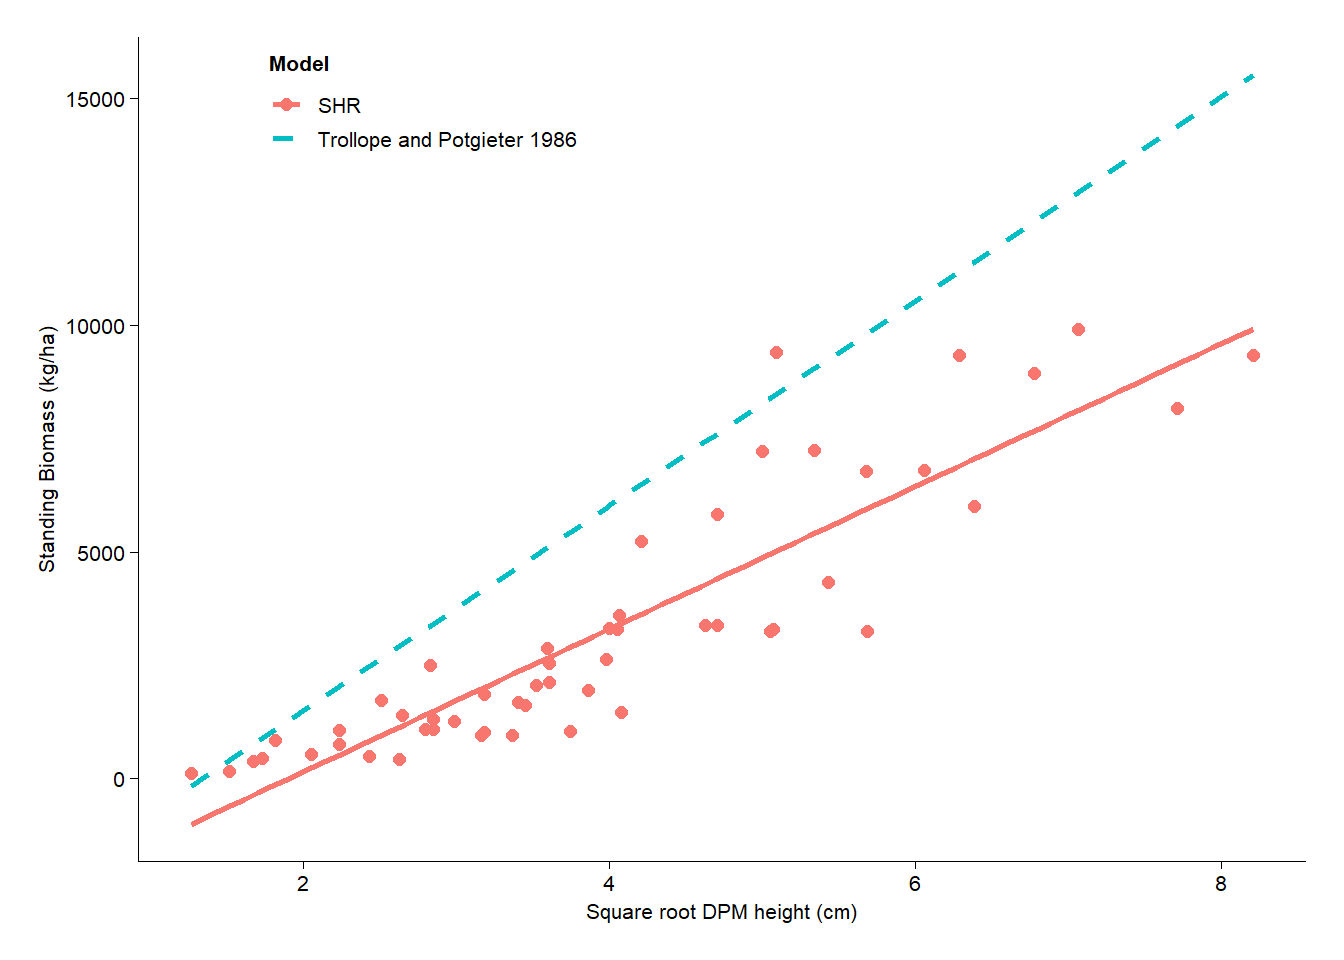
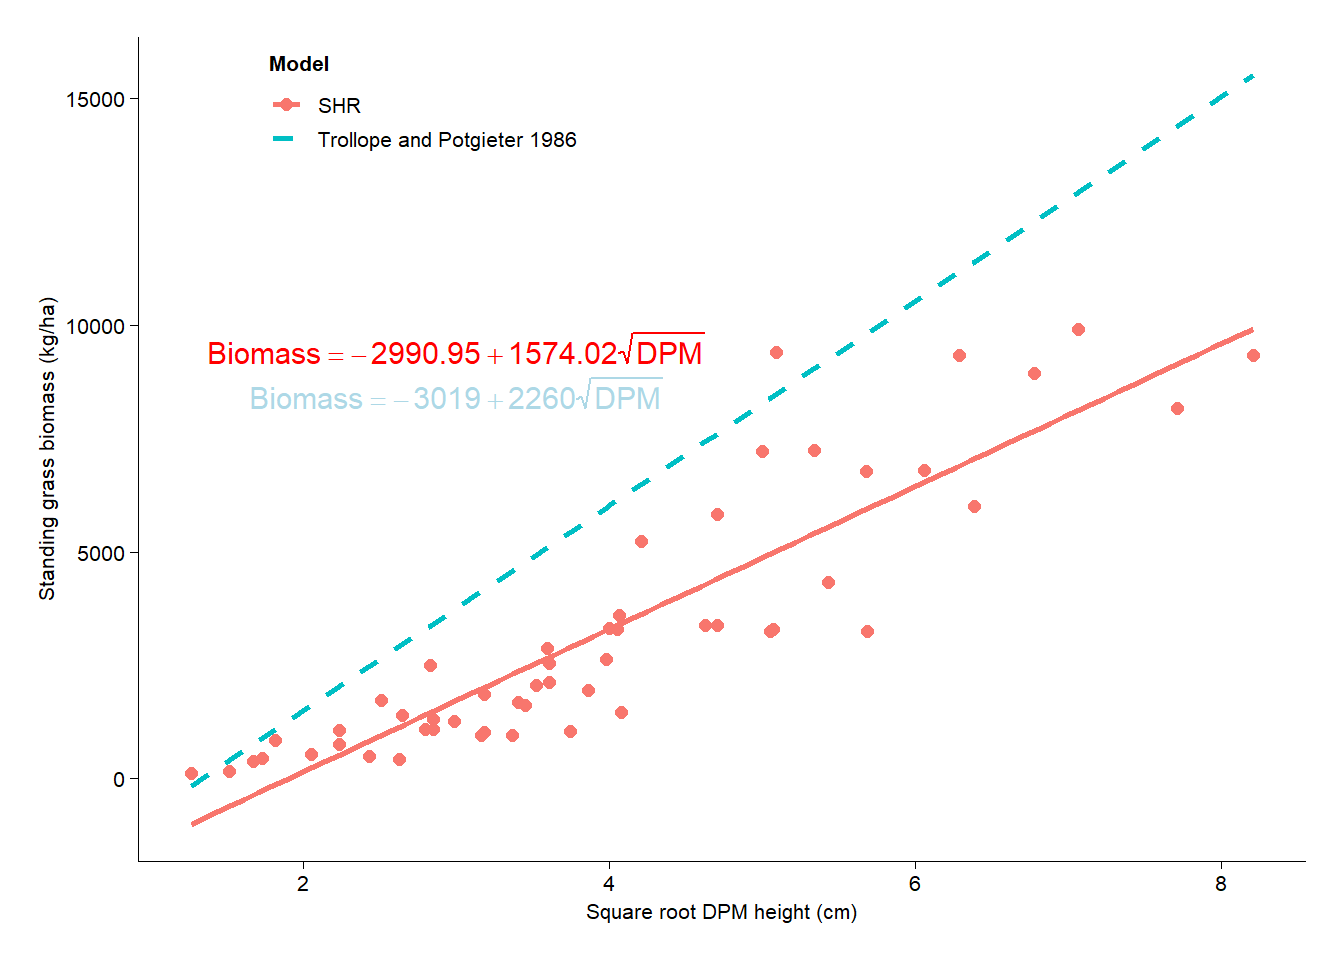
Refined work

Changed region(s): [[0.2812, 0.3438, 0.5312, 0.4375], [0.0312, 0.3125, 0.0625, 0.625], [0.1562, 0.3438, 0.2812, 0.4375]]

diff --git a/QUARTO_files/QUARTO.html b/QUARTO_files/QUARTO.html
@@ -114,7 +114,7 @@ pre > code.sourceCode > span > a:first-child::before { text-decoration: underlin
 
 <section id="introduction" class="level2">
 <h2 class="anchored" data-anchor-id="introduction">Introduction</h2>
-<p>The plots below show the relationship between DPM heights and standing biomass (kg/ha).</p>
+<p>The plots below show the relationship between DPM heights (cm) and standing grass biomass (kg/ha). A comparison of the study model (SHR) and other existing models e.g.&nbsp;Trollope and Potgieter (1986) is done on the plots.</p>
 </section>
 <section id="standing-grass-biomass-at-shangani-holistic-ranch" class="level2">
 <h2 class="anchored" data-anchor-id="standing-grass-biomass-at-shangani-holistic-ranch">Standing grass biomass at Shangani Holistic Ranch</h2>
@@ -341,58 +341,61 @@ R<sup>2</sup> / R<sup>2</sup> adjusted
 <span id="cb3-52"><a href="#cb3-52" aria-hidden="true" tabindex="-1"></a>frame_area <span class="ot">&lt;-</span> pi <span class="sc">*</span> (<span class="fl">0.17</span><span class="sc">^</span><span class="dv">2</span>)  <span class="co"># = 0.0908 m²</span></span>
 <span id="cb3-53"><a href="#cb3-53" aria-hidden="true" tabindex="-1"></a>WGdata<span class="sc">$</span>Biomass_kg_ha <span class="ot">&lt;-</span> WGdata<span class="sc">$</span>Weight <span class="sc">*</span> <span class="dv">10</span> <span class="sc">/</span> frame_area</span>
 <span id="cb3-54"><a href="#cb3-54" aria-hidden="true" tabindex="-1"></a></span>
-<span id="cb3-55"><a href="#cb3-55" aria-hidden="true" tabindex="-1"></a><span class="co"># 3. Linear regression: Biomass ~ DPH</span></span>
-<span id="cb3-56"><a href="#cb3-56" aria-hidden="true" tabindex="-1"></a>modelWG <span class="ot">&lt;-</span> <span class="fu">lm</span>(Biomass_kg_ha <span class="sc">~</span> DPH_Height, <span class="at">data =</span> WGdata)</span>
-<span id="cb3-57"><a href="#cb3-57" aria-hidden="true" tabindex="-1"></a></span>
+<span id="cb3-55"><a href="#cb3-55" aria-hidden="true" tabindex="-1"></a><span class="do">#####Creating annotations for Trollope </span></span>
+<span id="cb3-56"><a href="#cb3-56" aria-hidden="true" tabindex="-1"></a><span class="co"># If the height column exists, create square root</span></span>
+<span id="cb3-57"><a href="#cb3-57" aria-hidden="true" tabindex="-1"></a>WGdata<span class="sc">$</span>sqrtDPH_Height <span class="ot">&lt;-</span> <span class="fu">sqrt</span>(WGdata<span class="sc">$</span>DPH_Height)  <span class="co"># adjust if column name differs</span></span>
 <span id="cb3-58"><a href="#cb3-58" aria-hidden="true" tabindex="-1"></a></span>
-<span id="cb3-59"><a href="#cb3-59" aria-hidden="true" tabindex="-1"></a><span class="do">### USING THE TROLLOPE EQUATION TO COMPARE IT WITH MY MODEL</span></span>
-<span id="cb3-60"><a href="#cb3-60" aria-hidden="true" tabindex="-1"></a><span class="co"># Step 1: Prepare WGdata</span></span>
-<span id="cb3-61"><a href="#cb3-61" aria-hidden="true" tabindex="-1"></a></span>
-<span id="cb3-62"><a href="#cb3-62" aria-hidden="true" tabindex="-1"></a>WGdata<span class="sc">$</span>sqrtDPH_Height <span class="ot">&lt;-</span> <span class="fu">sqrt</span>(WGdata<span class="sc">$</span>DPH_Height)</span>
-<span id="cb3-63"><a href="#cb3-63" aria-hidden="true" tabindex="-1"></a></span>
-<span id="cb3-64"><a href="#cb3-64" aria-hidden="true" tabindex="-1"></a><span class="co"># Step 2: Create theoretical model predictions using the equation</span></span>
-<span id="cb3-65"><a href="#cb3-65" aria-hidden="true" tabindex="-1"></a>WGdata<span class="sc">$</span>TR_model <span class="ot">&lt;-</span> <span class="sc">-</span><span class="dv">3019</span> <span class="sc">+</span> <span class="dv">2260</span> <span class="sc">*</span> WGdata<span class="sc">$</span>sqrtDPH_Height</span>
-<span id="cb3-66"><a href="#cb3-66" aria-hidden="true" tabindex="-1"></a></span>
-<span id="cb3-67"><a href="#cb3-67" aria-hidden="true" tabindex="-1"></a><span class="co"># Step 3: Theoretical model: y = -3019 + 2260 * sqrt(DP)</span></span>
-<span id="cb3-68"><a href="#cb3-68" aria-hidden="true" tabindex="-1"></a>TR_model_data <span class="ot">&lt;-</span> <span class="fu">data.frame</span>(</span>
-<span id="cb3-69"><a href="#cb3-69" aria-hidden="true" tabindex="-1"></a>  <span class="at">sqrtDPH_Height =</span> WGdata<span class="sc">$</span>sqrtDPH_Height,</span>
-<span id="cb3-70"><a href="#cb3-70" aria-hidden="true" tabindex="-1"></a>  <span class="at">Biomass_kg_ha =</span> <span class="sc">-</span><span class="dv">3019</span> <span class="sc">+</span> <span class="dv">2260</span> <span class="sc">*</span> WGdata<span class="sc">$</span>sqrtDPH_Height,</span>
-<span id="cb3-71"><a href="#cb3-71" aria-hidden="true" tabindex="-1"></a>  <span class="at">Source =</span> <span class="st">"Trollope and Potgieter 1986"</span>)</span>
-<span id="cb3-72"><a href="#cb3-72" aria-hidden="true" tabindex="-1"></a></span>
-<span id="cb3-73"><a href="#cb3-73" aria-hidden="true" tabindex="-1"></a><span class="co"># Step 4: Add source to WGdata</span></span>
-<span id="cb3-74"><a href="#cb3-74" aria-hidden="true" tabindex="-1"></a>WG_actual_data <span class="ot">&lt;-</span> <span class="fu">data.frame</span>(</span>
-<span id="cb3-75"><a href="#cb3-75" aria-hidden="true" tabindex="-1"></a>  <span class="at">sqrtDPH_Height =</span> WGdata<span class="sc">$</span>sqrtDPH_Height,</span>
-<span id="cb3-76"><a href="#cb3-76" aria-hidden="true" tabindex="-1"></a>  <span class="at">Biomass_kg_ha =</span> WGdata<span class="sc">$</span>Biomass_kg_ha,</span>
-<span id="cb3-77"><a href="#cb3-77" aria-hidden="true" tabindex="-1"></a>  <span class="at">Source =</span> <span class="st">"SHR"</span>)</span>
+<span id="cb3-59"><a href="#cb3-59" aria-hidden="true" tabindex="-1"></a><span class="co"># Create actual data for SHR model</span></span>
+<span id="cb3-60"><a href="#cb3-60" aria-hidden="true" tabindex="-1"></a>WG_actual_data <span class="ot">&lt;-</span> <span class="fu">data.frame</span>(</span>
+<span id="cb3-61"><a href="#cb3-61" aria-hidden="true" tabindex="-1"></a>  <span class="at">sqrtDPH_Height =</span> WGdata<span class="sc">$</span>sqrtDPH_Height,</span>
+<span id="cb3-62"><a href="#cb3-62" aria-hidden="true" tabindex="-1"></a>  <span class="at">Biomass_kg_ha =</span> WGdata<span class="sc">$</span>Biomass_kg_ha,</span>
+<span id="cb3-63"><a href="#cb3-63" aria-hidden="true" tabindex="-1"></a>  <span class="at">Source =</span> <span class="st">"SHR"</span>)</span>
+<span id="cb3-64"><a href="#cb3-64" aria-hidden="true" tabindex="-1"></a></span>
+<span id="cb3-65"><a href="#cb3-65" aria-hidden="true" tabindex="-1"></a><span class="co"># Data from the Trollope equation</span></span>
+<span id="cb3-66"><a href="#cb3-66" aria-hidden="true" tabindex="-1"></a>TR_model_data <span class="ot">&lt;-</span> <span class="fu">data.frame</span>(</span>
+<span id="cb3-67"><a href="#cb3-67" aria-hidden="true" tabindex="-1"></a>  <span class="at">sqrtDPH_Height =</span> WGdata<span class="sc">$</span>sqrtDPH_Height,</span>
+<span id="cb3-68"><a href="#cb3-68" aria-hidden="true" tabindex="-1"></a>  <span class="at">Biomass_kg_ha =</span> <span class="sc">-</span><span class="dv">3019</span> <span class="sc">+</span> <span class="dv">2260</span> <span class="sc">*</span> WGdata<span class="sc">$</span>sqrtDPH_Height,</span>
+<span id="cb3-69"><a href="#cb3-69" aria-hidden="true" tabindex="-1"></a>  <span class="at">Source =</span> <span class="st">"Trollope and Potgieter 1986"</span></span>
+<span id="cb3-70"><a href="#cb3-70" aria-hidden="true" tabindex="-1"></a>)</span>
+<span id="cb3-71"><a href="#cb3-71" aria-hidden="true" tabindex="-1"></a></span>
+<span id="cb3-72"><a href="#cb3-72" aria-hidden="true" tabindex="-1"></a><span class="co"># Combine </span></span>
+<span id="cb3-73"><a href="#cb3-73" aria-hidden="true" tabindex="-1"></a>combined <span class="ot">&lt;-</span> <span class="fu">rbind</span>(WG_actual_data, TR_model_data)</span>
+<span id="cb3-74"><a href="#cb3-74" aria-hidden="true" tabindex="-1"></a></span>
+<span id="cb3-75"><a href="#cb3-75" aria-hidden="true" tabindex="-1"></a><span class="co">#Fit model SHR model and define annotation equations</span></span>
+<span id="cb3-76"><a href="#cb3-76" aria-hidden="true" tabindex="-1"></a>model_SHR <span class="ot">&lt;-</span> <span class="fu">lm</span>(Biomass_kg_ha <span class="sc">~</span> sqrtDPH_Height, <span class="at">data =</span> WG_actual_data)</span>
+<span id="cb3-77"><a href="#cb3-77" aria-hidden="true" tabindex="-1"></a>coefs_SHR <span class="ot">&lt;-</span> <span class="fu">round</span>(<span class="fu">coef</span>(model_SHR), <span class="dv">2</span>)</span>
 <span id="cb3-78"><a href="#cb3-78" aria-hidden="true" tabindex="-1"></a></span>
-<span id="cb3-79"><a href="#cb3-79" aria-hidden="true" tabindex="-1"></a><span class="co"># Step 5: Combine both for plotting</span></span>
-<span id="cb3-80"><a href="#cb3-80" aria-hidden="true" tabindex="-1"></a>combined <span class="ot">&lt;-</span> <span class="fu">rbind</span>(WG_actual_data, TR_model_data)</span>
+<span id="cb3-79"><a href="#cb3-79" aria-hidden="true" tabindex="-1"></a>eq_SHR <span class="ot">&lt;-</span> <span class="fu">paste0</span>(<span class="st">"Biomass == "</span>, coefs_SHR[<span class="dv">1</span>], <span class="st">" + "</span>, coefs_SHR[<span class="dv">2</span>], <span class="st">" * sqrt(DPM)"</span>)</span>
+<span id="cb3-80"><a href="#cb3-80" aria-hidden="true" tabindex="-1"></a>eq_Trollope <span class="ot">&lt;-</span> <span class="st">"Biomass == -3019 + 2260 * sqrt(DPM)"</span></span>
 <span id="cb3-81"><a href="#cb3-81" aria-hidden="true" tabindex="-1"></a></span>
-<span id="cb3-82"><a href="#cb3-82" aria-hidden="true" tabindex="-1"></a><span class="co"># Step 6: Plot with legend</span></span>
-<span id="cb3-83"><a href="#cb3-83" aria-hidden="true" tabindex="-1"></a><span class="fu">ggplot</span>(combined, <span class="fu">aes</span>(<span class="at">x =</span> sqrtDPH_Height, <span class="at">y =</span> Biomass_kg_ha, <span class="at">color =</span> Source)) <span class="sc">+</span></span>
-<span id="cb3-84"><a href="#cb3-84" aria-hidden="true" tabindex="-1"></a>  <span class="fu">geom_point</span>(<span class="at">data =</span> <span class="fu">subset</span>(combined, Source <span class="sc">==</span> <span class="st">"SHR"</span>), <span class="at">size =</span> <span class="dv">2</span>) <span class="sc">+</span></span>
-<span id="cb3-85"><a href="#cb3-85" aria-hidden="true" tabindex="-1"></a>  <span class="fu">geom_smooth</span>(<span class="at">data =</span> <span class="fu">subset</span>(combined, Source <span class="sc">==</span> <span class="st">"SHR"</span>),</span>
-<span id="cb3-86"><a href="#cb3-86" aria-hidden="true" tabindex="-1"></a>              <span class="at">method =</span> <span class="st">"lm"</span>, <span class="at">se =</span> <span class="cn">FALSE</span>) <span class="sc">+</span></span>
-<span id="cb3-87"><a href="#cb3-87" aria-hidden="true" tabindex="-1"></a>  <span class="fu">geom_line</span>(<span class="at">data =</span> <span class="fu">subset</span>(combined, Source <span class="sc">==</span> <span class="st">"Trollope and Potgieter 1986"</span>),</span>
-<span id="cb3-88"><a href="#cb3-88" aria-hidden="true" tabindex="-1"></a>            <span class="at">linetype =</span> <span class="st">"dashed"</span>, <span class="at">size =</span> <span class="dv">1</span>) <span class="sc">+</span></span>
-<span id="cb3-89"><a href="#cb3-89" aria-hidden="true" tabindex="-1"></a>  <span class="fu">labs</span>(</span>
-<span id="cb3-90"><a href="#cb3-90" aria-hidden="true" tabindex="-1"></a>    <span class="at">x =</span> <span class="st">"Square root DPM height (cm)"</span>,</span>
-<span id="cb3-91"><a href="#cb3-91" aria-hidden="true" tabindex="-1"></a>    <span class="at">y =</span> <span class="st">"Standing Biomass (kg/ha)"</span>,</span>
-<span id="cb3-92"><a href="#cb3-92" aria-hidden="true" tabindex="-1"></a>    <span class="at">color =</span> <span class="st">"Model"</span></span>
-<span id="cb3-93"><a href="#cb3-93" aria-hidden="true" tabindex="-1"></a>  ) <span class="sc">+</span></span>
-<span id="cb3-94"><a href="#cb3-94" aria-hidden="true" tabindex="-1"></a>  <span class="fu">theme_beautiful</span>() <span class="sc">+</span> <span class="fu">theme</span>(<span class="at">legend.position =</span> <span class="st">"right"</span>) <span class="sc">+</span> </span>
-<span id="cb3-95"><a href="#cb3-95" aria-hidden="true" tabindex="-1"></a>  <span class="fu">theme</span>(</span>
-<span id="cb3-96"><a href="#cb3-96" aria-hidden="true" tabindex="-1"></a>    <span class="at">legend.position =</span> <span class="fu">c</span>(<span class="fl">0.1</span>, <span class="dv">1</span>),</span>
-<span id="cb3-97"><a href="#cb3-97" aria-hidden="true" tabindex="-1"></a>    <span class="at">legend.justification =</span> <span class="fu">c</span>(<span class="dv">0</span>, <span class="dv">1</span>),</span>
-<span id="cb3-98"><a href="#cb3-98" aria-hidden="true" tabindex="-1"></a>    <span class="at">legend.box.just =</span> <span class="st">"left"</span>,</span>
-<span id="cb3-99"><a href="#cb3-99" aria-hidden="true" tabindex="-1"></a>    <span class="at">legend.title =</span> <span class="fu">element_text</span>(<span class="at">face =</span> <span class="st">"bold"</span>),</span>
-<span id="cb3-100"><a href="#cb3-100" aria-hidden="true" tabindex="-1"></a>    <span class="at">legend.background =</span> <span class="fu">element_rect</span>(<span class="at">fill =</span> <span class="st">"white"</span>, <span class="at">color =</span> <span class="st">"gray90"</span>))</span></code><button title="Copy to Clipboard" class="code-copy-button"><i class="bi"></i></button></pre></div>
+<span id="cb3-82"><a href="#cb3-82" aria-hidden="true" tabindex="-1"></a></span>
+<span id="cb3-83"><a href="#cb3-83" aria-hidden="true" tabindex="-1"></a><span class="do">##PLTOTTING</span></span>
+<span id="cb3-84"><a href="#cb3-84" aria-hidden="true" tabindex="-1"></a></span>
+<span id="cb3-85"><a href="#cb3-85" aria-hidden="true" tabindex="-1"></a><span class="fu">ggplot</span>(combined, <span class="fu">aes</span>(<span class="at">x =</span> sqrtDPH_Height, <span class="at">y =</span> Biomass_kg_ha, <span class="at">color =</span> Source)) <span class="sc">+</span></span>
+<span id="cb3-86"><a href="#cb3-86" aria-hidden="true" tabindex="-1"></a>  <span class="fu">geom_point</span>(<span class="at">data =</span> <span class="fu">subset</span>(combined, Source <span class="sc">==</span> <span class="st">"SHR"</span>), <span class="at">size =</span> <span class="dv">2</span>) <span class="sc">+</span></span>
+<span id="cb3-87"><a href="#cb3-87" aria-hidden="true" tabindex="-1"></a>  <span class="fu">geom_smooth</span>(<span class="at">data =</span> <span class="fu">subset</span>(combined, Source <span class="sc">==</span> <span class="st">"SHR"</span>), <span class="at">method =</span> <span class="st">"lm"</span>, <span class="at">se =</span> <span class="cn">FALSE</span>) <span class="sc">+</span></span>
+<span id="cb3-88"><a href="#cb3-88" aria-hidden="true" tabindex="-1"></a>  <span class="fu">geom_line</span>(<span class="at">data =</span> <span class="fu">subset</span>(combined, Source <span class="sc">==</span> <span class="st">"Trollope and Potgieter 1986"</span>),</span>
+<span id="cb3-89"><a href="#cb3-89" aria-hidden="true" tabindex="-1"></a>            <span class="at">linetype =</span> <span class="st">"dashed"</span>, <span class="at">size =</span> <span class="dv">1</span>) <span class="sc">+</span></span>
+<span id="cb3-90"><a href="#cb3-90" aria-hidden="true" tabindex="-1"></a>  <span class="fu">annotate</span>(<span class="st">"text"</span>, <span class="at">x =</span> <span class="dv">3</span>, <span class="at">y =</span> <span class="dv">9500</span>, <span class="at">label =</span> eq_SHR, <span class="at">parse =</span> <span class="cn">TRUE</span>, <span class="at">color =</span> <span class="st">"red"</span>, <span class="at">size =</span> <span class="dv">4</span>) <span class="sc">+</span></span>
+<span id="cb3-91"><a href="#cb3-91" aria-hidden="true" tabindex="-1"></a>  <span class="fu">annotate</span>(<span class="st">"text"</span>, <span class="at">x =</span> <span class="dv">3</span>, <span class="at">y =</span> <span class="dv">8500</span>, <span class="at">label =</span> eq_Trollope, <span class="at">parse =</span> <span class="cn">TRUE</span>, <span class="at">color =</span> <span class="st">"lightblue"</span>, <span class="at">size =</span> <span class="dv">4</span>) <span class="sc">+</span></span>
+<span id="cb3-92"><a href="#cb3-92" aria-hidden="true" tabindex="-1"></a>  <span class="fu">labs</span>(</span>
+<span id="cb3-93"><a href="#cb3-93" aria-hidden="true" tabindex="-1"></a>    <span class="at">x =</span> <span class="st">"Square root DPM height (cm)"</span>,</span>
+<span id="cb3-94"><a href="#cb3-94" aria-hidden="true" tabindex="-1"></a>    <span class="at">y =</span> <span class="st">"Standing grass biomass (kg/ha)"</span>,</span>
+<span id="cb3-95"><a href="#cb3-95" aria-hidden="true" tabindex="-1"></a>    <span class="at">color =</span> <span class="st">"Model"</span></span>
+<span id="cb3-96"><a href="#cb3-96" aria-hidden="true" tabindex="-1"></a>  ) <span class="sc">+</span></span>
+<span id="cb3-97"><a href="#cb3-97" aria-hidden="true" tabindex="-1"></a>  <span class="fu">theme_beautiful</span>()<span class="sc">+</span> </span>
+<span id="cb3-98"><a href="#cb3-98" aria-hidden="true" tabindex="-1"></a>  <span class="fu">theme</span>(</span>
+<span id="cb3-99"><a href="#cb3-99" aria-hidden="true" tabindex="-1"></a>    <span class="at">legend.position =</span> <span class="fu">c</span>(<span class="fl">0.1</span>, <span class="dv">1</span>),</span>
+<span id="cb3-100"><a href="#cb3-100" aria-hidden="true" tabindex="-1"></a>    <span class="at">legend.justification =</span> <span class="fu">c</span>(<span class="dv">0</span>, <span class="dv">1</span>),</span>
+<span id="cb3-101"><a href="#cb3-101" aria-hidden="true" tabindex="-1"></a>    <span class="at">legend.box.just =</span> <span class="st">"left"</span>,</span>
+<span id="cb3-102"><a href="#cb3-102" aria-hidden="true" tabindex="-1"></a>    <span class="at">legend.title =</span> <span class="fu">element_text</span>(<span class="at">face =</span> <span class="st">"bold"</span>),</span>
+<span id="cb3-103"><a href="#cb3-103" aria-hidden="true" tabindex="-1"></a>    <span class="at">legend.background =</span> <span class="fu">element_rect</span>(<span class="at">fill =</span> <span class="st">"white"</span>, <span class="at">color =</span> <span class="st">"gray90"</span>))</span></code><button title="Copy to Clipboard" class="code-copy-button"><i class="bi"></i></button></pre></div>
 </details>
 <div class="cell-output-display">
 <div class="quarto-figure quarto-figure-center">
 <figure class="figure">
 <p><img src="QUARTO_files/figure-html/unnamed-chunk-2-1.png" class="img-fluid figure-img" width="672"></p>
-<figcaption>Figure 2. Comparing the Trollope model and SHR model using square root DPM height</figcaption>
+<figcaption>Figure 2. Comparing the Trollope and Potgieter (1986) model and SHR model using square root DPM height</figcaption>
 </figure>
 </div>
 </div>
@@ -491,7 +494,7 @@ R<sup>2</sup> / R<sup>2</sup> adjusted
 <div class="quarto-figure quarto-figure-center">
 <figure class="figure">
 <p><img src="QUARTO_files/figure-html/unnamed-chunk-3-1.png" class="img-fluid figure-img" width="672"></p>
-<figcaption>Figure 3. Comparing the Trollope model and SHR model using untransformed DPM height</figcaption>
+<figcaption>Figure 3. Comparing the Trollope and Potgieter (1986) model and SHR model using untransformed DPM height</figcaption>
 </figure>
 </div>
 </div>
@@ -759,7 +762,7 @@ R<sup>2</sup> / R<sup>2</sup> adjusted
 <div class="quarto-figure quarto-figure-center">
 <figure class="figure">
 <p><img src="QUARTO_files/figure-html/unnamed-chunk-5-1.png" class="img-fluid figure-img" width="672"></p>
-<figcaption>Figure 5. Comparing SHR model to three models, two of them have been previously used at Shangani Holistic Ranch and the third is the Trollope model widely used in literature.</figcaption>
+<figcaption>Figure 5. Comparing SHR model to three models, two of them have been previously used at Shangani Holistic Ranch and the third is the Trollope and Potgieter (1986) model widely used in literature.</figcaption>
 </figure>
 </div>
 </div>
